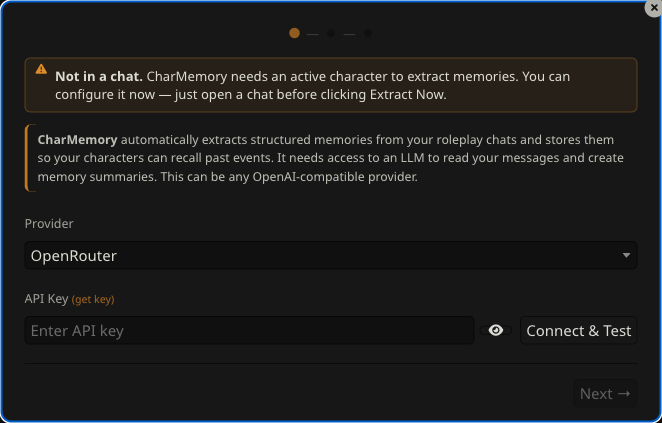
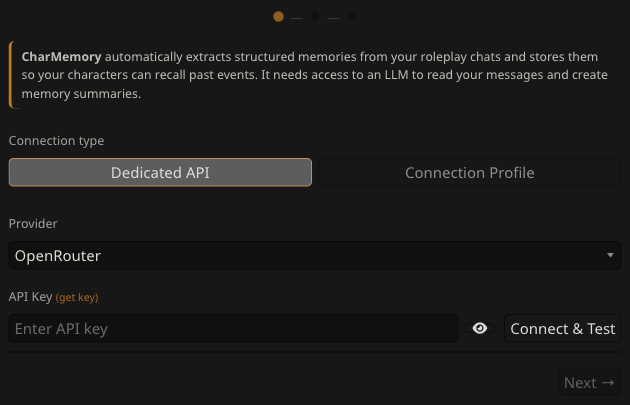
feat: add connection type selector to Setup Wizard
Step 1 of the wizard now offers a toggle between "Dedicated API"
(default) and "Connection Profile" before configuring the LLM.
Previously, Connection Profile was only available in the Settings
Modal after completing the wizard.

- Source toggle buttons with active/inactive styling
- Profile section: dropdown via CMRS.handleDropdown(), Test Connection
- Step 3 summary adapts to show profile name or provider/model
- Updated getting-started.md with both paths and new screenshot
- Updated CHANGELOG.md with improvements and tooltip fix

Changed region(s): [[0.0, 0.0, 1.0, 1.0], [0.9349, 0.5926, 0.9651, 0.6222]]

diff --git a/index.js b/index.js
@@ -5040,6 +5040,9 @@ async function showSetupWizard(startStep = 1) {
 
     // Step 1: LLM Connection
     const noChatWarnStyle = getCharacterName() ? 'display:none;' : '';
+    const cmAvailable = isConnectionManagerAvailable();
+    const currentSource = s.source || EXTRACTION_SOURCE.PROVIDER;
+    const showProfile = currentSource === EXTRACTION_SOURCE.PROFILE;
     const step1Html = `
         <div class="charMemory_wizardStep" data-step="1">
             <div id="cm_wiz_noChatWarn" class="charMemory_wizardCallout charMemory_wizardCallout--warn" style="${noChatWarnStyle}">
@@ -5048,8 +5051,16 @@ async function showSetupWizard(startStep = 1) {
             </div>
             <div class="charMemory_wizardExplanation">
                 <strong>CharMemory</strong> automatically extracts structured memories from your roleplay chats and stores them so your characters can recall past events.
-                It needs access to an LLM to read your messages and create memory summaries. This can be any OpenAI-compatible provider.
+                It needs access to an LLM to read your messages and create memory summaries.
             </div>
+            <div class="charMemory_modalFieldGroup">
+                <label><small>Connection type</small></label>
+                <div class="charMemory_wizSourceToggle">
+                    <button type="button" class="menu_button charMemory_wizSourceBtn${!showProfile ? ' active' : ''}" data-source="provider">Dedicated API</button>
+                    <button type="button" class="menu_button charMemory_wizSourceBtn${showProfile ? ' active' : ''}" data-source="profile" ${!cmAvailable ? 'disabled title="Enable the Connection Manager extension to use saved profiles"' : ''}>Connection Profile</button>
+                </div>
+            </div>
+            <div id="cm_wiz_providerSection" style="${showProfile ? 'display:none;' : ''}">
             <div class="charMemory_modalFieldGroup">
                 <label><small>Provider</small></label>
                 <select id="cm_wiz_provider" class="text_pole">${providerOptions}</select>
@@ -5086,6 +5097,20 @@ async function showSetupWizard(startStep = 1) {
                     <div id="cm_wiz_modelList" class="charMemory_wizModelList"></div>
                 </div>
                 <small id="cm_wiz_modelStatus" class="charMemory_helperText" style="display:none;"></small>
+            </div>
+            </div>
+            <div id="cm_wiz_profileSection" style="${showProfile ? '' : 'display:none;'}">
+                <div class="charMemory_modalFieldGroup">
+                    <label><small>Connection Profile</small></label>
+                    <select id="cm_wiz_profileSelect" class="text_pole">
+                        <option value="">Select a Connection Profile</option>
+                    </select>
+                    <small class="charMemory_helperText">Uses credentials and settings from your saved SillyTavern connection profile.</small>
+                </div>
+                <div class="charMemory_modalFieldGroup">
+                    <input type="button" id="cm_wiz_profileTest" class="menu_button charMemory_fullWidth" value="Test Connection" />
+                    <small id="cm_wiz_profileTestStatus" class="charMemory_helperText" style="display:none;margin-bottom:6px;"></small>
+                </div>
             </div>
             <div class="charMemory_wizardNav">
                 <input type="button" id="cm_wiz_next1" class="menu_button" value="Next \u2192" disabled />
@@ -5245,6 +5270,90 @@ async function showSetupWizard(startStep = 1) {
         $wizard.find('#cm_wiz_connectStatus').hide().text('');
         $wizard.find('#cm_wiz_modelRow').hide();
     }
+
+    // --- Source toggle (Dedicated API vs Connection Profile) ---
+    $wizard.on('click', '.charMemory_wizSourceBtn', function () {
+        const source = $(this).data('source');
+        $wizard.find('.charMemory_wizSourceBtn').removeClass('active');
+        $(this).addClass('active');
+
+        const isProfile = source === 'profile';
+        $wizard.find('#cm_wiz_providerSection').toggle(!isProfile);
+        $wizard.find('#cm_wiz_profileSection').toggle(isProfile);
+
+        extension_settings[MODULE_NAME].source = isProfile ? EXTRACTION_SOURCE.PROFILE : EXTRACTION_SOURCE.PROVIDER;
+        saveSettingsDebounced();
+
+        // Reset connection state for the new source
+        wizConnectionOk = false;
+        $wizard.find('#cm_wiz_next1').prop('disabled', true);
+        $wizard.find('#cm_wiz_connectStatus, #cm_wiz_profileTestStatus').hide().text('');
+    });
+
+    // --- Connection Profile dropdown & test ---
+    if (cmAvailable) {
+        try {
+            const context = getContext();
+            const CMRS = context.ConnectionManagerRequestService;
+            if (CMRS) {
+                CMRS.handleDropdown(
+                    '#cm_wiz_profileSelect',
+                    s.selectedProfileId || '',
+                    (profile) => {
+                        extension_settings[MODULE_NAME].selectedProfileId = profile?.id || '';
+                        saveSettingsDebounced();
+                    },
+                );
+            }
+        } catch (err) {
+            console.warn(`${LOG_PREFIX} Failed to initialize wizard profile dropdown:`, err);
+        }
+    }
+
+    $wizard.on('click', '#cm_wiz_profileTest', async function () {
+        const profileId = extension_settings[MODULE_NAME].selectedProfileId;
+        const $status = $wizard.find('#cm_wiz_profileTestStatus');
+        const $btn = $(this);
+
+        if (!profileId) {
+            $status.text('Select a connection profile first.').css('color', '#e74c3c').show();
+            return;
+        }
+
+        $btn.prop('disabled', true).val('Testing...');
+        $status.text('Testing connection...').css('color', '').show();
+
+        try {
+            const context = getContext();
+            const CMRS = context.ConnectionManagerRequestService;
+            const profile = CMRS.getProfile(profileId);
+            const profileName = profile?.name || profileId;
+
+            const t0 = performance.now();
+            const result = await CMRS.sendRequest(
+                profileId,
+                [{ role: 'user', content: 'Respond with exactly: CHARMEMORY_TEST_OK' }],
+                20,
+                { stream: false, extractData: true },
+            );
+            const elapsed = ((performance.now() - t0) / 1000).toFixed(1);
+            const reply = (result?.content || '').trim();
+
+            if (reply.includes('CHARMEMORY_TEST_OK')) {
+                $status.text(`\u2714 ${profileName} responded correctly (${elapsed}s)`).css('color', '#2ecc71').show();
+            } else {
+                $status.html(`\u2714 ${escapeHtml(profileName)} connected (${elapsed}s). It may still work for extraction.`).css('color', '#27ae60').show();
+            }
+            wizConnectionOk = true;
+            $wizard.find('#cm_wiz_next1').prop('disabled', false);
+        } catch (err) {
+            $status.text(`\u2718 ${err.message || 'Test failed'}`).css('color', '#e74c3c').show();
+            wizConnectionOk = false;
+            $wizard.find('#cm_wiz_next1').prop('disabled', true);
+        } finally {
+            $btn.prop('disabled', false).val('Test Connection');
+        }
+    });
 
     $wizard.on('change', '#cm_wiz_provider', function () {
         const key = String($(this).val());
@@ -5595,12 +5704,45 @@ async function showSetupWizard(startStep = 1) {
 
     // --- Step 3: Review & Go ---
     function initStep3() {
+        const source = extension_settings[MODULE_NAME].source;
+        const isProfile = source === EXTRACTION_SOURCE.PROFILE;
         const pk = extension_settings[MODULE_NAME].selectedProvider;
         const p = PROVIDER_PRESETS[pk] || {};
         const ps = getProviderSettings(pk);
-        const modelName = ps.model || p.defaultModel || '(default)';
-        const modelShort = modelName.length > 40 ? modelName.slice(0, 40) + '\u2026' : modelName;
         const interval = extension_settings[MODULE_NAME].interval || 20;
+
+        // Build connection summary rows based on source type
+        let connectionRows;
+        if (isProfile) {
+            let profileName = '(none selected)';
+            try {
+                const context = getContext();
+                const CMRS = context.ConnectionManagerRequestService;
+                const profile = CMRS?.getProfile(extension_settings[MODULE_NAME].selectedProfileId);
+                if (profile?.name) profileName = profile.name;
+            } catch { /* ignore */ }
+            connectionRows = `
+                <div class="charMemory_wizardSummaryRow">
+                    <span class="label">Source</span>
+                    <span>Connection Profile</span>
+                </div>
+                <div class="charMemory_wizardSummaryRow">
+                    <span class="label">Profile</span>
+                    <span>${escapeHtml(profileName)}</span>
+                </div>`;
+        } else {
+            const modelName = ps.model || p.defaultModel || '(default)';
+            const modelShort = modelName.length > 40 ? modelName.slice(0, 40) + '\u2026' : modelName;
+            connectionRows = `
+                <div class="charMemory_wizardSummaryRow">
+                    <span class="label">Provider</span>
+                    <span>${escapeHtml(p.name || pk)}</span>
+                </div>
+                <div class="charMemory_wizardSummaryRow">
+                    <span class="label">Model</span>
+                    <span>${escapeHtml(modelShort)}</span>
+                </div>`;
+        }
 
         // VS summary from extension_settings.vectors
         // Check DOM for VS extension UI to avoid false-positive when VS is disabled.
@@ -5621,14 +5763,7 @@ async function showSetupWizard(startStep = 1) {
         }
 
         $wizard.find('#cm_wiz_summary').html(`
-            <div class="charMemory_wizardSummaryRow">
-                <span class="label">Provider</span>
-                <span>${escapeHtml(p.name || pk)}</span>
-            </div>
-            <div class="charMemory_wizardSummaryRow">
-                <span class="label">Model</span>
-                <span>${escapeHtml(modelShort)}</span>
-            </div>
+            ${connectionRows}
             <div class="charMemory_wizardSummaryRow">
                 <span class="label">Connection</span>
                 <span>${wizConnectionOk ? '<span style="color:#4a4;">\u2714 Connected</span>' : '<span style="color:#e8a33d;">\u26A0 Not tested</span>'}</span>

diff --git a/style.css b/style.css
@@ -1602,6 +1602,29 @@ body.charMemory-phone-mode .charMemory_modalNavItem.active {
     border-left: 3px solid var(--SmartThemeQuoteColor, #888);
 }
 
+.charMemory_wizSourceToggle {
+    display: flex;
+    gap: 6px;
+}
+
+.charMemory_wizSourceBtn {
+    flex: 1;
+    text-align: center;
+    opacity: 0.6;
+    border: 1px solid var(--SmartThemeBorderColor);
+    transition: opacity 0.15s, border-color 0.15s;
+}
+
+.charMemory_wizSourceBtn.active {
+    opacity: 1;
+    border-color: var(--SmartThemeQuoteColor);
+}
+
+.charMemory_wizSourceBtn:disabled {
+    opacity: 0.3;
+    cursor: not-allowed;
+}
+
 .charMemory_wizConnectRow {
     display: flex;
     align-items: flex-end;

diff --git a/docs/getting-started.md b/docs/getting-started.md
@@ -12,7 +12,14 @@ If the wizard didn't open automatically, click the **wand icon** (✦) in the Ch
 
 CharMemory needs its own LLM connection — separate from your main chat. This keeps the extraction prompt clean and uncontaminated by chat personas, jailbreaks, or system prompts.
 
-![Setup Wizard step 1 — provider dropdown, API key field, Connect button](../images/wizard-step1.png)
+![Setup Wizard step 1 — connection type toggle, provider dropdown, API key field, Connect button](../images/wizard-step1.png)
+
+The wizard offers two connection types at the top:
+
+- **Dedicated API** (default) — connect directly to an API provider with its own key and model
+- **Connection Profile** — reuse a saved SillyTavern connection (see [Providers → Connection Profiles](providers.md#connection-profiles))
+
+### Dedicated API (default)
 
 **1. Choose a provider** from the dropdown, e.g. **NanoGPT**. If you're not sure, **Pollinations** is free and requires no API key. See [Providers](providers.md) for a full list with model recommendations.
 
@@ -26,9 +33,15 @@ CharMemory needs its own LLM connection — separate from your main chat. This k
 
 > **Running an LLM locally?** Select **Local Server** from the provider dropdown. Enter your server URL (e.g., `http://localhost:11434/v1` for Ollama). No API key needed. See [Providers → Local Servers](providers.md#local-servers) for port numbers by backend.
 
-> **Already have a connection configured in SillyTavern?** You can skip the wizard's provider setup and use a **Connection Profile** instead. After completing the wizard, open **Settings** (gear icon) → **Connection** → change **LLM Used for Extraction** to **Connection Profile** and select your saved profile. See [Providers → Connection Profiles](providers.md#connection-profiles).
-
 > **If your provider is not listed** Many providers have an OpenAI compatible API endpoint. See if you can configure it that way.
+
+### Connection Profile
+
+If you already have a connection saved in SillyTavern's Connection Manager, click **Connection Profile** at the top to switch to that mode.
+
+![Wizard step 1 with Connection Profile selected](../images/wizard-step1-profile.png)
+
+Select your profile from the dropdown and click **Test Connection**. The profile's API, model, and credentials are used automatically — no separate setup needed. See [Providers → Connection Profiles](providers.md#connection-profiles) for how to create one.
 
 ![Wizard step 1 after successful connection — green checkmark, model selected](../images/wizard-step1-connected.png)
 

diff --git a/CHANGELOG.md b/CHANGELOG.md
@@ -2,10 +2,16 @@
 
 ## 2.1.9
 
+### Improvements
+
+- **Setup Wizard connection type selector**: The wizard's Step 1 now lets you choose between **Dedicated API** (default) and **Connection Profile** before configuring the LLM connection. Previously, Connection Profile was only available in the Settings Modal after completing the wizard.
+- **Documentation**: Added Connection Profile docs to providers.md, getting-started.md, README.md, and architecture.md. New screenshots for Settings Modal tabs and Connection Profile creation. Documented "Protect Recent Messages" feature in managing-memories.md.
+
 ### Bug Fixes
 
 - **Fix message swipes counting toward extraction interval**: Swiping to a different AI response variant was incrementing the extraction counter as if a new message had been sent, causing extraction to trigger sooner than the configured interval. The `CHARACTER_MESSAGE_RENDERED` event handler now checks the `type` argument ST passes and returns early when `type === 'swipe'`. Fixes [#9](https://github.com/bal-spec/sillytavern-character-memory/issues/9).
 - **Fix Settings and Troubleshooter modals cramped on mobile**: The left-nav layout used a fixed-width sidebar that consumed nearly half the popup width on narrow screens, leaving the content panel too narrow for readable text. In phone mode, the nav now switches to horizontal tabs above the content panel, giving it the full popup width.
+- **Fix tooltip**: Injection Viewer button tooltip said "Toggle Injection Sidebar" — corrected to "Toggle Injection Viewer".
 
 ## 2.1.8
 
